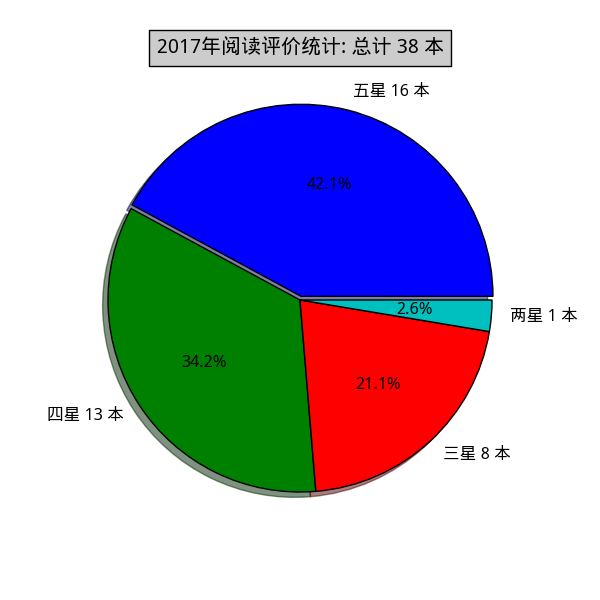
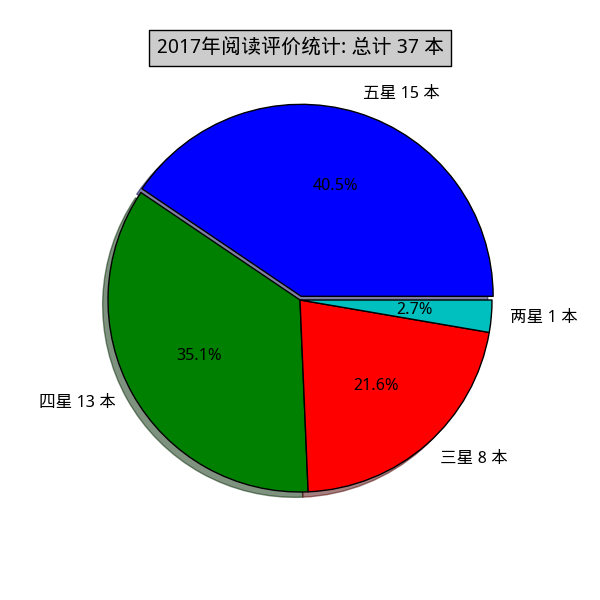
update 2017 reading books.

diff --git a/douban_reading_statistics/2017/2017reading.md b/douban_reading_statistics/2017/2017reading.md
@@ -1,17 +1,17 @@
 ## 2017年阅读统计，本页面由代码自动生成
-## 总计阅读 38 本
+## 总计阅读 37 本
 ### 评价统计:
 ![评价统计](2017_reading_rate.png)
 
- > 五星图书 16 本，占比 42.1%  
- > 四星图书 13 本，占比 34.2%  
- > 三星图书 8 本，占比 21.1%  
- > 两星图书 1 本，占比 2.6%  
+ > 五星图书 15 本，占比 40.5%  
+ > 四星图书 13 本，占比 35.1%  
+ > 三星图书 8 本，占比 21.6%  
+ > 两星图书 1 本，占比 2.7%  
 
 ### 标签统计:
 ![标签统计](2017_reading_tags.png)
 
- > 软件开发 13 本  
+ > 软件开发 12 本  
  > 历史 7 本  
  > 政治 5 本  
  > 文学 3 本  
@@ -23,92 +23,85 @@
  > 人类学 1 本  
  > 科学 1 本  
 
-### 软件开发: 13 本
-#### No.1 大话设计模式
- > 图书名称：[大话设计模式](https://book.douban.com/subject/2334288/)  
- > 豆瓣链接：[https://book.douban.com/subject/2334288/](https://book.douban.com/subject/2334288/)  
- > 出版信息：程杰 / 清华大学出版社 / 2007-12-1 / 45.00元  
- > 标签：软件开发&nbsp;&nbsp;&nbsp;&nbsp;&nbsp;&nbsp;&nbsp;&nbsp;&nbsp;&nbsp;&nbsp;&nbsp;&nbsp;&nbsp;&nbsp;&nbsp;评分：**★★★★★**  
- > 我的评论：设计模式入门，相当地“大话”，通俗易懂，可以和《Head First Design Pattern》媲美。  
-
-#### No.2 UNIX环境高级编程
+### 软件开发: 12 本
+#### No.1 UNIX环境高级编程
  > 图书名称：[UNIX环境高级编程](https://book.douban.com/subject/1788421/)  
  > 豆瓣链接：[https://book.douban.com/subject/1788421/](https://book.douban.com/subject/1788421/)  
  > 出版信息：W.Richard Stevens、Stephen A.Rago / 尤晋元、张亚英、戚正伟 / 人民邮电出版社 / 2006年 / 99.00元  
  > 标签：软件开发&nbsp;&nbsp;&nbsp;&nbsp;&nbsp;&nbsp;&nbsp;&nbsp;&nbsp;&nbsp;&nbsp;&nbsp;&nbsp;&nbsp;&nbsp;&nbsp;评分：**★★★★★**  
  > 我的评论：条理清晰，钜细靡遗，非常基础的 unix/linux 编程入门书籍。  
 
-#### No.3 深入理解程序设计
+#### No.2 深入理解程序设计
  > 图书名称：[深入理解程序设计](https://book.douban.com/subject/25789594/)  
  > 豆瓣链接：[https://book.douban.com/subject/25789594/](https://book.douban.com/subject/25789594/)  
  > 出版信息：[美] Jonathan Bartlett / 郭晴霞 / 人民邮电出版社 / 2014-1 / 49.00  
  > 标签：软件开发&nbsp;&nbsp;&nbsp;&nbsp;&nbsp;&nbsp;&nbsp;&nbsp;&nbsp;&nbsp;&nbsp;&nbsp;&nbsp;&nbsp;&nbsp;&nbsp;评分：**★★★★★**  
  > 我的评论：简明易懂的AT&T汇编入门书籍，将各种程序概念讲的通俗易懂，最后的推荐书单非常经典。英语CET4水平即可读懂英文版，中文版为《深入理解程序设计》  
 
-#### No.4 Programming From The Ground Up
+#### No.3 Programming From The Ground Up
  > 图书名称：[Programming From The Ground Up](https://book.douban.com/subject/1787855/)  
  > 豆瓣链接：[https://book.douban.com/subject/1787855/](https://book.douban.com/subject/1787855/)  
  > 出版信息：Jonathan Bartlett / Bartlett Publishing / 2004-07-31 / USD 34.95  
  > 标签：软件开发&nbsp;&nbsp;&nbsp;&nbsp;&nbsp;&nbsp;&nbsp;&nbsp;&nbsp;&nbsp;&nbsp;&nbsp;&nbsp;&nbsp;&nbsp;&nbsp;评分：**★★★★★**  
  > 我的评论：简明易懂的AT&T汇编入门书籍，将各种程序概念讲的通俗易懂，最后的推荐书单非常经典。英语CET4水平即可读懂英文版，中文版为《深入理解程序设计》  
 
-#### No.5 深入理解C++11
+#### No.4 深入理解C++11
  > 图书名称：[深入理解C++11](https://book.douban.com/subject/24738301/)  
  > 豆瓣链接：[https://book.douban.com/subject/24738301/](https://book.douban.com/subject/24738301/)  
  > 出版信息：Michael Wong、IBM XL编译器中国开发团队 / 机械工业出版社 / 2013-6 / 69.00元  
  > 标签：软件开发&nbsp;&nbsp;&nbsp;&nbsp;&nbsp;&nbsp;&nbsp;&nbsp;&nbsp;&nbsp;&nbsp;&nbsp;&nbsp;&nbsp;&nbsp;&nbsp;评分：**★★★★★**  
  > 我的评论：讲C++11新出来的特性，对于已经熟悉C++的人来说，很合适，能够快速了解C++11有哪些新特性，讲的也非常好，简洁易懂，适度深入。  
 
-#### No.6 计算机程序的构造和解释
+#### No.5 计算机程序的构造和解释
  > 图书名称：[计算机程序的构造和解释](https://book.douban.com/subject/1148282/)  
  > 豆瓣链接：[https://book.douban.com/subject/1148282/](https://book.douban.com/subject/1148282/)  
  > 出版信息：Harold Abelson、Gerald Jay Sussman、Julie Sussman / 裘宗燕 / 机械工业出版社 / 2004-2 / 45.00元  
  > 标签：软件开发&nbsp;&nbsp;&nbsp;&nbsp;&nbsp;&nbsp;&nbsp;&nbsp;&nbsp;&nbsp;&nbsp;&nbsp;&nbsp;&nbsp;&nbsp;&nbsp;评分：**★★★★★**  
  > 我的评论：跳过语法、开发环境等杂碎，直接享受纯思维的乐趣，也只有scheme这么纯的语言能够做到：程序抽象、数据抽象、语言抽象、机器抽象，顺带介绍了lambda表达式、流、惰性求值、寄存器、垃圾回收、编译与解释等等概念。当作程序入门读难度有点大，也许<How to Design Programs>更适合担当此任。从今而后，我要把程序员分为两种：一种读过SICP，另一种没读过SICP。  
 
-#### No.7 C++ API设计
+#### No.6 C++ API设计
  > 图书名称：[C++ API设计](https://book.douban.com/subject/24869855/)  
  > 豆瓣链接：[https://book.douban.com/subject/24869855/](https://book.douban.com/subject/24869855/)  
  > 出版信息：[美] Martin Reddy / 刘晓娜、臧秀涛、林健 / 人民邮电出版社 / 2013-8 / 89.00  
  > 标签：软件开发&nbsp;&nbsp;&nbsp;&nbsp;&nbsp;&nbsp;&nbsp;&nbsp;&nbsp;&nbsp;&nbsp;&nbsp;&nbsp;&nbsp;&nbsp;&nbsp;评分：**★★★★★**  
  > 我的评论：C++API领域中的《代码大全》，非常适合框架、库的开发者。  
 
-#### No.8 七周七语言
+#### No.7 七周七语言
  > 图书名称：[七周七语言](https://book.douban.com/subject/10555435/)  
  > 豆瓣链接：[https://book.douban.com/subject/10555435/](https://book.douban.com/subject/10555435/)  
  > 出版信息：Bruce A.Tate / 巨成、戴玮、白明 / 人民邮电出版社 / 2012-5-8 / 59.00元  
  > 标签：软件开发&nbsp;&nbsp;&nbsp;&nbsp;&nbsp;&nbsp;&nbsp;&nbsp;&nbsp;&nbsp;&nbsp;&nbsp;&nbsp;&nbsp;&nbsp;&nbsp;评分：**★★★★**  
  > 我的评论：如果只熟悉一两种语言的话，不妨看看这本书，开拓视野，了解不同编程范式。  
 
-#### No.9 图解TCP/IP : 第5版
+#### No.8 图解TCP/IP : 第5版
  > 图书名称：[图解TCP/IP : 第5版](https://book.douban.com/subject/24737674/)  
  > 豆瓣链接：[https://book.douban.com/subject/24737674/](https://book.douban.com/subject/24737674/)  
  > 出版信息：[日]竹下隆史、[日]村山公保、[日]荒井透、[日]苅田幸雄 / 乌尼日其其格 / 人民邮电出版社 / 2013-7-1 / 69.00元  
  > 标签：软件开发&nbsp;&nbsp;&nbsp;&nbsp;&nbsp;&nbsp;&nbsp;&nbsp;&nbsp;&nbsp;&nbsp;&nbsp;&nbsp;&nbsp;&nbsp;&nbsp;评分：**★★★★**  
  > 我的评论：通俗易懂，简单明了，网络入门必读，赞。  
 
-#### No.10 性能之巅
+#### No.9 性能之巅
  > 图书名称：[性能之巅](https://book.douban.com/subject/26586598/)  
  > 豆瓣链接：[https://book.douban.com/subject/26586598/](https://book.douban.com/subject/26586598/)  
  > 出版信息：Brendan Gregg / 徐章宁、吴寒思、陈磊 / 电子工业出版社 / 2015-8-15 / 128  
  > 标签：软件开发&nbsp;&nbsp;&nbsp;&nbsp;&nbsp;&nbsp;&nbsp;&nbsp;&nbsp;&nbsp;&nbsp;&nbsp;&nbsp;&nbsp;&nbsp;&nbsp;评分：**★★★**  
  > 我的评论：A dictionary book for performance.  
 
-#### No.11 Android移动开发技术丛书 Android底层开发技术实战详解——内核、移植和驱动（第2版）
+#### No.10 Android移动开发技术丛书 Android底层开发技术实战详解——内核、移植和驱动（第2版）
  > 图书名称：[Android移动开发技术丛书 Android底层开发技术实战详解——内核、移植和驱动（第2版）](https://book.douban.com/subject/26345170/)  
  > 豆瓣链接：[https://book.douban.com/subject/26345170/](https://book.douban.com/subject/26345170/)  
  > 出版信息：王振丽 / 电子工业出版社 / 2015-3 / 79.00元  
  > 标签：软件开发&nbsp;&nbsp;&nbsp;&nbsp;&nbsp;&nbsp;&nbsp;&nbsp;&nbsp;&nbsp;&nbsp;&nbsp;&nbsp;&nbsp;&nbsp;&nbsp;评分：**★★★**  
  > 我的评论：第一版是《Android驱动开发与移植实战详解》？？为啥作者完全不同，而内容大部分相同呢？谁抄谁呢？？  
 
-#### No.12 Android驱动开发与移植实战详解
+#### No.11 Android驱动开发与移植实战详解
  > 图书名称：[Android驱动开发与移植实战详解](https://book.douban.com/subject/11511562/)  
  > 豆瓣链接：[https://book.douban.com/subject/11511562/](https://book.douban.com/subject/11511562/)  
  > 出版信息：李骏 / 2012-8 / 79.00元  
  > 标签：软件开发&nbsp;&nbsp;&nbsp;&nbsp;&nbsp;&nbsp;&nbsp;&nbsp;&nbsp;&nbsp;&nbsp;&nbsp;&nbsp;&nbsp;&nbsp;&nbsp;评分：**★★★**  
  > 我的评论：驱动开发入门  
 
-#### No.13 Android内核剖析
+#### No.12 Android内核剖析
  > 图书名称：[Android内核剖析](https://book.douban.com/subject/6811238/)  
  > 豆瓣链接：[https://book.douban.com/subject/6811238/](https://book.douban.com/subject/6811238/)  
  > 出版信息：柯元旦 / 电子工业出版社 / 2011-9 / 79.90元  
@@ -117,49 +110,49 @@
 
 
 ### 历史: 7 本
-#### No.14 西周史
+#### No.13 西周史
  > 图书名称：[西周史](https://book.douban.com/subject/6397532/)  
  > 豆瓣链接：[https://book.douban.com/subject/6397532/](https://book.douban.com/subject/6397532/)  
  > 出版信息：许倬云 / 生活·读书·新知三联书店 / 2012-3 / 48.00元  
  > 标签：历史&nbsp;&nbsp;&nbsp;&nbsp;&nbsp;&nbsp;&nbsp;&nbsp;&nbsp;&nbsp;&nbsp;&nbsp;&nbsp;&nbsp;&nbsp;&nbsp;评分：**★★★★★**  
  > 我的评论：根据出土的文物、铭文，佐以文献考据西周的历史、政治、社会以及日常生活形态。不可多得的先秦史学著作。天命观、华夏文化认同均始自西周，西周对西北草原部落采取守势，对东夷南夷则采取扩张同化势，并按照姬姜两族的血缘亲属关系分封，形成统一的地缘政治结构。成也分封，败也分封。北方外患侵扰不断，部分封国坐大，王室败落，外患加内乱最终导致西周的灭亡。  
 
-#### No.15 西周的灭亡
+#### No.14 西周的灭亡
  > 图书名称：[西周的灭亡](https://book.douban.com/subject/2298352/)  
  > 豆瓣链接：[https://book.douban.com/subject/2298352/](https://book.douban.com/subject/2298352/)  
  > 出版信息：李峰 / 徐峰、汤惠生 / 上海古籍出版社 / 2007-10-01 / 38.00  
  > 标签：历史&nbsp;&nbsp;&nbsp;&nbsp;&nbsp;&nbsp;&nbsp;&nbsp;&nbsp;&nbsp;&nbsp;&nbsp;&nbsp;&nbsp;&nbsp;&nbsp;评分：**★★★★★**  
  > 我的评论：作者通过探讨西周国家的衰弱和灭亡这一特定的持续历史和地理过程中，地理条件及其政治性建构之间的复杂关系，综合运用考古发现、铭文和文献记录，同时联系地表形态的特征，分析和说明了西周的政治体系是如何并且为何不能经受住时间的考验，从而最终导致了西周国家的解体和王畿的崩溃。  
 
-#### No.16 俄罗斯史（第八版）
+#### No.15 俄罗斯史（第八版）
  > 图书名称：[俄罗斯史（第八版）](https://book.douban.com/subject/25748806/)  
  > 豆瓣链接：[https://book.douban.com/subject/25748806/](https://book.douban.com/subject/25748806/)  
  > 出版信息：【美】梁赞诺夫斯基、斯坦伯格 / 杨烨、卿文辉、王毅 / 上海人民出版社 / 2013-10 / 88.00  
  > 标签：历史&nbsp;&nbsp;&nbsp;&nbsp;&nbsp;&nbsp;&nbsp;&nbsp;&nbsp;&nbsp;&nbsp;&nbsp;&nbsp;&nbsp;&nbsp;&nbsp;评分：**★★★★**  
  > 我的评论：俄罗斯人民是苦难的，又是坚韧的。这部大部头厚今薄古地综述了基辅罗斯、蒙古入侵时的封建割据、莫斯科公国、苏联、俄罗斯联邦的发展历程。鉴于国内历史教育基本上对苏联之前的历史只字不提，阅读此书弥补了这方面的无知。原著良心，综述各方观点，翻译上乘。  
 
-#### No.17 太平天国
+#### No.16 太平天国
  > 图书名称：[太平天国](https://book.douban.com/subject/6860955/)  
  > 豆瓣链接：[https://book.douban.com/subject/6860955/](https://book.douban.com/subject/6860955/)  
  > 出版信息：史景迁 / 朱庆葆等 / 广西师范大学出版社 / 2011-9-30 / 56.00元  
  > 标签：历史&nbsp;&nbsp;&nbsp;&nbsp;&nbsp;&nbsp;&nbsp;&nbsp;&nbsp;&nbsp;&nbsp;&nbsp;&nbsp;&nbsp;&nbsp;&nbsp;评分：**★★★★**  
  > 我的评论：去掉了阶级定性的所谓农民革命的光环，剩下的只是一个略显荒诞，新瓶装旧酒的故事。这本书聚焦于洪秀全本人以及他诠释或篡改的教义事实上，罗列资料，较少价值判断，是其长；对于对手的描述，着墨于官军或湘军较少，而洋人反而较多，实则曾国藩对于平定这场类似白莲教运动叛乱功不可没，是其短。  
 
-#### No.18 开放中的变迁
+#### No.17 开放中的变迁
  > 图书名称：[开放中的变迁](https://book.douban.com/subject/5906321/)  
  > 豆瓣链接：[https://book.douban.com/subject/5906321/](https://book.douban.com/subject/5906321/)  
  > 出版信息：金观涛、刘青峰 / 法律出版社 / 2011-1 / 46.00元  
  > 标签：历史&nbsp;&nbsp;&nbsp;&nbsp;&nbsp;&nbsp;&nbsp;&nbsp;&nbsp;&nbsp;&nbsp;&nbsp;&nbsp;&nbsp;&nbsp;&nbsp;评分：**★★★★**  
  > 我的评论：用一个超稳定框架+意识形态的万能膏药来解释一切，不免有点武断和牵强，尤其是1924年之后的部分。我能说要集体文化来解释传统的一切，用个体文化来预示未来也可以么？总体来说，作者的一些观点与总结还是值得赞赏。  
 
-#### No.19 中国法律与中国社会
+#### No.18 中国法律与中国社会
  > 图书名称：[中国法律与中国社会](https://book.douban.com/subject/1224279/)  
  > 豆瓣链接：[https://book.douban.com/subject/1224279/](https://book.douban.com/subject/1224279/)  
  > 出版信息：瞿同祖 / 中华书局 / 2003-09-01 / 28.00元  
  > 标签：历史&nbsp;&nbsp;&nbsp;&nbsp;&nbsp;&nbsp;&nbsp;&nbsp;&nbsp;&nbsp;&nbsp;&nbsp;&nbsp;&nbsp;&nbsp;&nbsp;评分：**★★★★**  
  > 我的评论：单就学术著作可评五星。透过对纲常名教剖析可以看到赤裸裸的吃人真相。中国过去的法，甚至是至现在的法律现实，都是法表儒里-搞有差别化对待，什么刑不上大夫、党内处分，几千年有啥变化？  
 
-#### No.20 明治维新的国度
+#### No.19 明治维新的国度
  > 图书名称：[明治维新的国度](https://book.douban.com/subject/25962185/)  
  > 豆瓣链接：[https://book.douban.com/subject/25962185/](https://book.douban.com/subject/25962185/)  
  > 出版信息：宗泽亚 / 北京联合出版公司·后浪出版公司 / 2014-11 / 78.00元  
@@ -168,35 +161,35 @@
 
 
 ### 政治: 5 本
-#### No.21 如彗星划过夜空
+#### No.20 如彗星划过夜空
  > 图书名称：[如彗星划过夜空](https://book.douban.com/subject/1762869/)  
  > 豆瓣链接：[https://book.douban.com/subject/1762869/](https://book.douban.com/subject/1762869/)  
  > 出版信息：林达 / 生活·读书·新知三联书店 / 2006-3 / 21.00元  
  > 标签：政治&nbsp;&nbsp;&nbsp;&nbsp;&nbsp;&nbsp;&nbsp;&nbsp;&nbsp;&nbsp;&nbsp;&nbsp;&nbsp;&nbsp;&nbsp;&nbsp;评分：**★★★★★**  
  > 我的评论：这本书通过制宪会议以及五角大楼文件案引发的对宪法第一修正案新闻自由原则的考验，概览了宪法诞生的环境、妥协、实践以及不断地完善。美国的幸运在于，他们在没有构建出庞大的政府以前，就已经有一批懂得分权与制衡的政治绅士以及宪法指导。宪法，政府，民众三者是在一个互相妥协的过程中慢慢长大，  
 
-#### No.22 我也有一个梦想
+#### No.21 我也有一个梦想
  > 图书名称：[我也有一个梦想](https://book.douban.com/subject/1014825/)  
  > 豆瓣链接：[https://book.douban.com/subject/1014825/](https://book.douban.com/subject/1014825/)  
  > 出版信息：林达 / 生活·读书·新知三联书店 / 2004-08 / 25.00元  
  > 标签：政治&nbsp;&nbsp;&nbsp;&nbsp;&nbsp;&nbsp;&nbsp;&nbsp;&nbsp;&nbsp;&nbsp;&nbsp;&nbsp;&nbsp;&nbsp;&nbsp;评分：**★★★★★**  
  > 我的评论：通过详细介绍民权法案产生、执行、深入民心的来龙去脉。非常精彩且富有思辨精神了介绍了美国种族融合过程，暂进式的社会与法制变革，体现了一个不断革新的民主社会如何通过一个个具体案件分析、反思、妥协，改进其社会制度。  
 
-#### No.23 历史深处的忧虑
+#### No.22 历史深处的忧虑
  > 图书名称：[历史深处的忧虑](https://book.douban.com/subject/1027191/)  
  > 豆瓣链接：[https://book.douban.com/subject/1027191/](https://book.douban.com/subject/1027191/)  
  > 出版信息：林达 / 生活·读书·新知三联书店 / 1997-5 / 19.00元  
  > 标签：政治&nbsp;&nbsp;&nbsp;&nbsp;&nbsp;&nbsp;&nbsp;&nbsp;&nbsp;&nbsp;&nbsp;&nbsp;&nbsp;&nbsp;&nbsp;&nbsp;评分：**★★★★**  
  > 我的评论：这一本主要介绍权利法案即宪法修正案条文、含义以及案例，重点介绍了辛普森案。行文有点冗长，不够简练，但对了解美国政体，民情基调还是非常有帮助的。  
 
-#### No.24 总统是靠不住的
+#### No.23 总统是靠不住的
  > 图书名称：[总统是靠不住的](https://book.douban.com/subject/1056315/)  
  > 豆瓣链接：[https://book.douban.com/subject/1056315/](https://book.douban.com/subject/1056315/)  
  > 出版信息：林达 / 生活·读书·新知三联书店 / 2004-08 / 21.80  
  > 标签：政治&nbsp;&nbsp;&nbsp;&nbsp;&nbsp;&nbsp;&nbsp;&nbsp;&nbsp;&nbsp;&nbsp;&nbsp;&nbsp;&nbsp;&nbsp;&nbsp;评分：**★★★★**  
  > 我的评论：用通俗易懂讲故事的形式，把美国政治体制中基于制约与均衡理念的三权分立讲述出来，非常适合入门了解美国政体、法制、选举等方面。尼克松水门事件分析得非常精彩。  
 
-#### No.25 一路走来一路读
+#### No.24 一路走来一路读
  > 图书名称：[一路走来一路读](https://book.douban.com/subject/1010888/)  
  > 豆瓣链接：[https://book.douban.com/subject/1010888/](https://book.douban.com/subject/1010888/)  
  > 出版信息：林达 / 湖南文艺出版社 / 2004-01 / 31.90  
@@ -205,21 +198,21 @@
 
 
 ### 文学: 3 本
-#### No.26 杀死一只知更鸟
+#### No.25 杀死一只知更鸟
  > 图书名称：[杀死一只知更鸟](https://book.douban.com/subject/6781808/)  
  > 豆瓣链接：[https://book.douban.com/subject/6781808/](https://book.douban.com/subject/6781808/)  
  > 出版信息：[美] 哈珀·李 / 高红梅 / 译林出版社 / 2012-9 / 32.00元  
  > 标签：文学&nbsp;&nbsp;&nbsp;&nbsp;&nbsp;&nbsp;&nbsp;&nbsp;&nbsp;&nbsp;&nbsp;&nbsp;&nbsp;&nbsp;&nbsp;&nbsp;评分：**★★★★★**  
  > 我的评论：最具童心的法学启蒙读本，正义是一种教养，杀死一只知更鸟是一种罪恶！  
 
-#### No.27 荆棘鸟
+#### No.26 荆棘鸟
  > 图书名称：[荆棘鸟](https://book.douban.com/subject/1086249/)  
  > 豆瓣链接：[https://book.douban.com/subject/1086249/](https://book.douban.com/subject/1086249/)  
  > 出版信息：[澳] 考琳·麦卡洛 / 曾胡 / 译林出版社 / 1998-7 / 28.00元  
  > 标签：文学&nbsp;&nbsp;&nbsp;&nbsp;&nbsp;&nbsp;&nbsp;&nbsp;&nbsp;&nbsp;&nbsp;&nbsp;&nbsp;&nbsp;&nbsp;&nbsp;评分：**★★★**  
  > 我的评论：澳大利亚的“《飘》”不如美国的《飘》，相当程度低美化了德罗海达庄园的生活。讲述一家三代女人的爱情，单纯的爱，单纯的迷恋，单纯的伤害。翻译很用心很用心。  
 
-#### No.28 陆犯焉识
+#### No.27 陆犯焉识
  > 图书名称：[陆犯焉识](https://book.douban.com/subject/6880158/)  
  > 豆瓣链接：[https://book.douban.com/subject/6880158/](https://book.douban.com/subject/6880158/)  
  > 出版信息：严歌苓 / 作家出版社 / 2011-10-1 / 35.00元  
@@ -228,21 +221,21 @@
 
 
 ### 教育: 3 本
-#### No.29 让孩子的大脑自由
+#### No.28 让孩子的大脑自由
  > 图书名称：[让孩子的大脑自由](https://book.douban.com/subject/10758030/)  
  > 豆瓣链接：[https://book.douban.com/subject/10758030/](https://book.douban.com/subject/10758030/)  
  > 出版信息：（美）约翰•梅迪纳 / 王佳艺 / 浙江人民出版社 / 2012-6 / 42.90元  
  > 标签：教育&nbsp;&nbsp;&nbsp;&nbsp;&nbsp;&nbsp;&nbsp;&nbsp;&nbsp;&nbsp;&nbsp;&nbsp;&nbsp;&nbsp;&nbsp;&nbsp;评分：**★★★★**  
  > 我的评论：育儿常识集合。从孕期注意事项到夫妻感情对孩子的影响，从智力的影响因素到孩子应该如何表扬，从培养共情到如何惩罚，涵盖主题较广。研究结果与实践相结合，理论性和操作性都尚可。父母是孩子的榜样，别让孩子生活在原生家庭的阴影中。  
 
-#### No.30 游戏力
+#### No.29 游戏力
  > 图书名称：[游戏力](https://book.douban.com/subject/6084402/)  
  > 豆瓣链接：[https://book.douban.com/subject/6084402/](https://book.douban.com/subject/6084402/)  
  > 出版信息：Lawrence J. Cohen, Ph.D. / 李岩 / 军事谊文出版社 / 2011-5-1 / 39.00元  
  > 标签：教育&nbsp;&nbsp;&nbsp;&nbsp;&nbsp;&nbsp;&nbsp;&nbsp;&nbsp;&nbsp;&nbsp;&nbsp;&nbsp;&nbsp;&nbsp;&nbsp;评分：**★★★★**  
  > 我的评论：游戏是探索求知、亲情培养、社交情商、情绪调节多方面的灵丹妙药。洗澡的不听--玩水的乖乖来，这就是游戏力的魔力。  
 
-#### No.31 把你的英语用起来！
+#### No.30 把你的英语用起来！
  > 图书名称：[把你的英语用起来！](https://book.douban.com/subject/3748247/)  
  > 豆瓣链接：[https://book.douban.com/subject/3748247/](https://book.douban.com/subject/3748247/)  
  > 出版信息：伍君仪、刘晓光 / 外文出版社 / 2013-6 / 36.00元  
@@ -251,14 +244,14 @@
 
 
 ### 法学: 2 本
-#### No.32 为权利而斗争
+#### No.31 为权利而斗争
  > 图书名称：[为权利而斗争](https://book.douban.com/subject/2009914/)  
  > 豆瓣链接：[https://book.douban.com/subject/2009914/](https://book.douban.com/subject/2009914/)  
  > 出版信息：鲁道夫·冯·耶林 / 郑永流 / 法律出版社 / 2007-1 / 14.00元  
  > 标签：法学&nbsp;&nbsp;&nbsp;&nbsp;&nbsp;&nbsp;&nbsp;&nbsp;&nbsp;&nbsp;&nbsp;&nbsp;&nbsp;&nbsp;&nbsp;&nbsp;评分：**★★★★★**  
  > 我的评论：如果习惯于容忍不法而无奈放弃，那么当这种奴性的萎缩的麻木的法感情，遇到的不是个人而是有关全民族的权利侵害时，诸如宪法废弃或颠覆、外敌攻击等问题，谁又会相信他会摇身一变感情饱满、精力充沛地投入行动？没有勇敢地保护自己权利习惯的人又怎会迫于冲动心甘情愿地为了全体献出自己的生命和财产？  
 
-#### No.33 美国宪政历程
+#### No.32 美国宪政历程
  > 图书名称：[美国宪政历程](https://book.douban.com/subject/1144185/)  
  > 豆瓣链接：[https://book.douban.com/subject/1144185/](https://book.douban.com/subject/1144185/)  
  > 出版信息：任东来、陈伟、白雪峰 / 中国法制出版社 / 2014-1 / 35.00元  
@@ -267,7 +260,7 @@
 
 
 ### 经济: 1 本
-#### No.34 经济为什么会崩溃
+#### No.33 经济为什么会崩溃
  > 图书名称：[经济为什么会崩溃](https://book.douban.com/subject/6743298/)  
  > 豆瓣链接：[https://book.douban.com/subject/6743298/](https://book.douban.com/subject/6743298/)  
  > 出版信息：〔美〕彼得•D•希夫  安德鲁•J•希夫 / 胡晓姣、吕靖纬 / 中信出版社 / 2011-8 / 39.00元  
@@ -276,7 +269,7 @@
 
 
 ### 设计: 1 本
-#### No.35 设计心理学
+#### No.34 设计心理学
  > 图书名称：[设计心理学](https://book.douban.com/subject/4606471/)  
  > 豆瓣链接：[https://book.douban.com/subject/4606471/](https://book.douban.com/subject/4606471/)  
  > 出版信息：[美]唐纳德·A·诺曼 / 梅琼 / 中信出版社 / 2010-03 / 30.00元  
@@ -285,7 +278,7 @@
 
 
 ### 思维: 1 本
-#### No.36 优秀的绵羊
+#### No.35 优秀的绵羊
  > 图书名称：[优秀的绵羊](https://book.douban.com/subject/26747208/)  
  > 豆瓣链接：[https://book.douban.com/subject/26747208/](https://book.douban.com/subject/26747208/)  
  > 出版信息：[美] 威廉·德雷谢维奇 / 林杰 / 九州出版社 / 2016-4 / CNY 42.00  
@@ -294,7 +287,7 @@
 
 
 ### 人类学: 1 本
-#### No.37 金枝
+#### No.36 金枝
  > 图书名称：[金枝](https://book.douban.com/subject/2101774/)  
  > 豆瓣链接：[https://book.douban.com/subject/2101774/](https://book.douban.com/subject/2101774/)  
  > 出版信息：（英）弗雷泽 / 徐育新、汪培基等 / 大众文艺出版社 / 1998-01 / 78.00元  
@@ -303,7 +296,7 @@
 
 
 ### 科学: 1 本
-#### No.38 黑猩猩在召唤
+#### No.37 黑猩猩在召唤
  > 图书名称：[黑猩猩在召唤](https://book.douban.com/subject/1951398/)  
  > 豆瓣链接：[https://book.douban.com/subject/1951398/](https://book.douban.com/subject/1951398/)  
  > 出版信息：Jane van Lawick-Goodall / 刘后一、张锋 / 科学出版社 / 1980 / 1.05  

diff --git a/douban_reading_statistics/2017/2017reading_raw.md b/douban_reading_statistics/2017/2017reading_raw.md
@@ -46,12 +46,6 @@
 > Reading: 三星 2017-09-07 读过 标签: 文学
 > Comment: 经历比较曲折吧，经历了民国、留美、上海抗战、重庆抗战、被反右、西北改造、被平反、回上海又被儿女单位化了。主线还是爱情，所以不算是严肃文学。前后两部分主角的心理状态变化过程衔接不太好，顺变的感觉，给出的理由又不够有说服力。
 
-##No.9 大话设计模式
-> Name: [大话设计模式](https://book.douban.com/subject/2334288/)
-> Publish: 程杰 / 清华大学出版社 / 2007-12-1 / 45.00元
-> Reading: 五星 2017-08-24 读过 标签: 软件开发
-> Comment: 设计模式入门，相当地“大话”，通俗易懂，可以和《Head First Design Pattern》媲美。
-
 ##No.10 金枝
 > Name: [金枝](https://book.douban.com/subject/2101774/)
 > Publish: （英）弗雷泽 / 徐育新、汪培基等 / 大众文艺出版社 / 1998-01 / 78.00元
